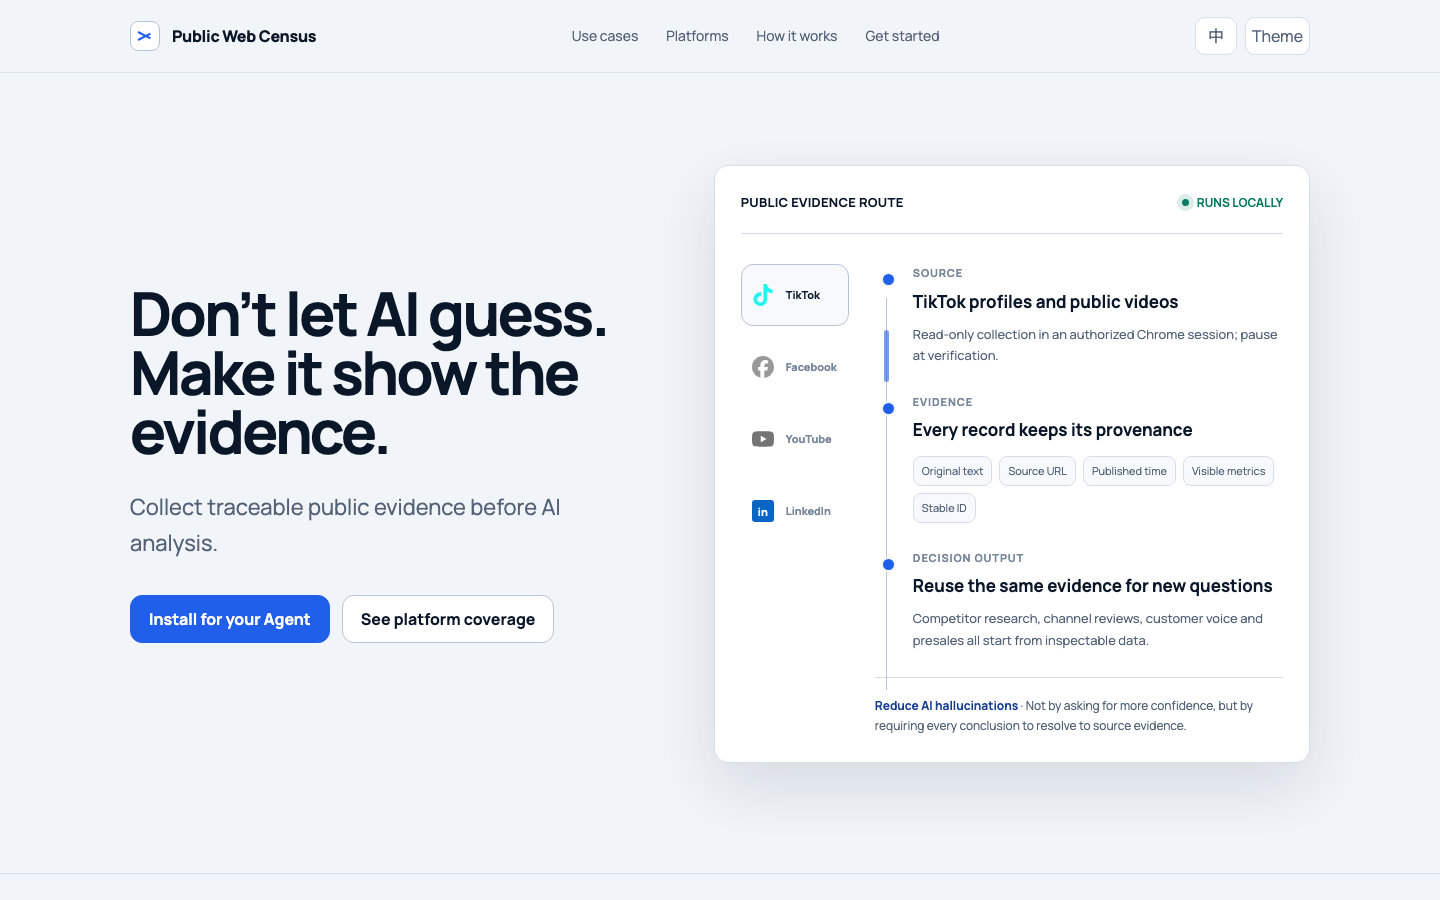
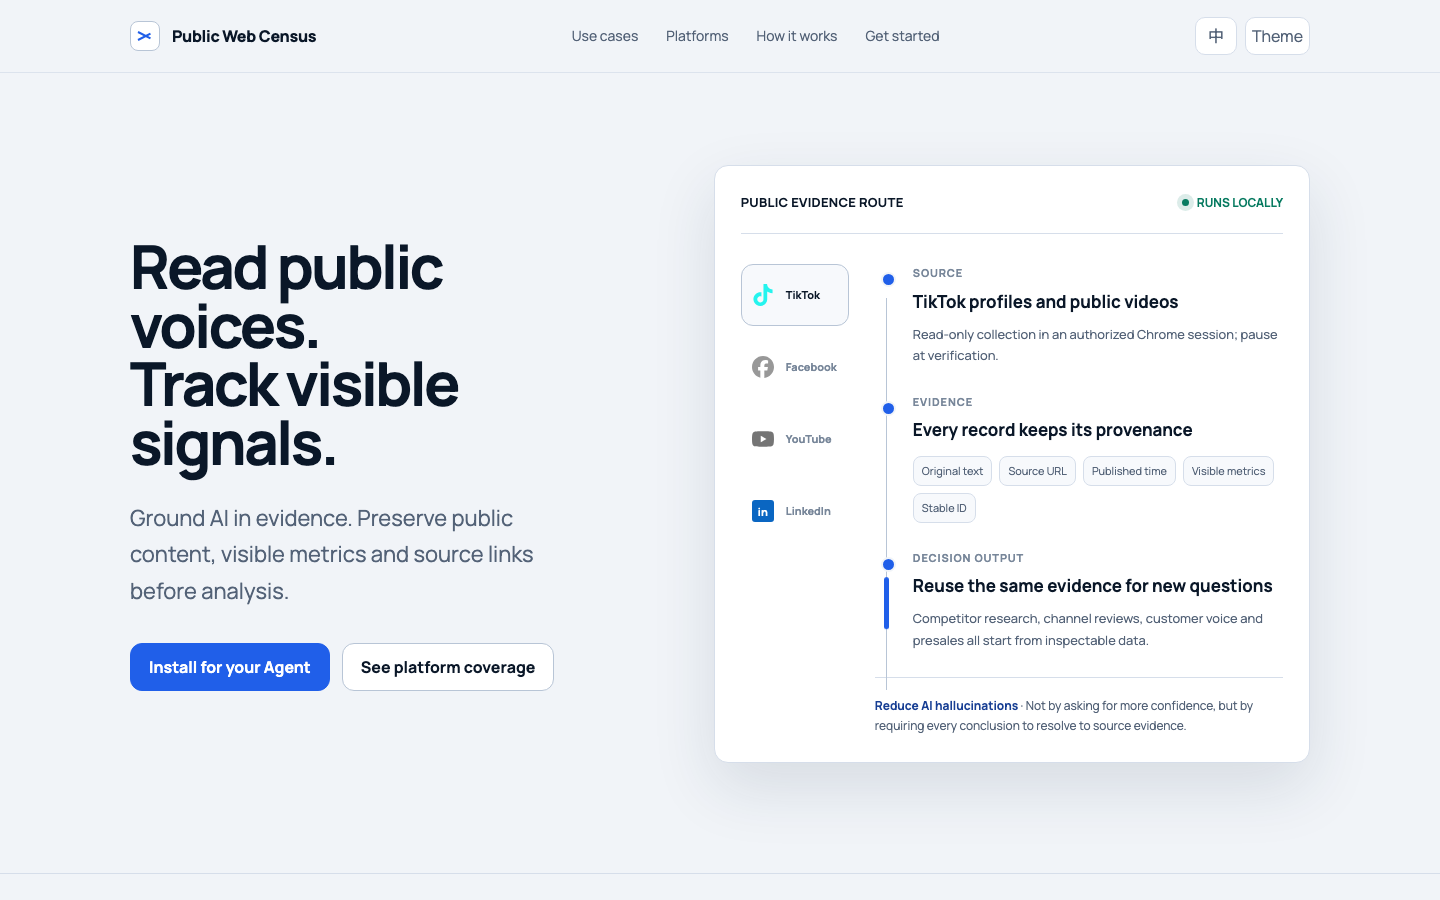
Introduce 察言观数 bilingual brand

diff --git a/docs/index.html b/docs/index.html
@@ -4,7 +4,7 @@
   <meta charset="utf-8">
   <meta name="viewport" content="width=device-width, initial-scale=1">
   <meta name="description" content="Public Web Census collects traceable public evidence across TikTok, Facebook, YouTube and LinkedIn before AI analysis.">
-  <title>Public Web Census | Evidence before analysis</title>
+  <title>Public Web Census · 察言观数 | Ground AI in evidence</title>
   <link rel="preconnect" href="https://fonts.googleapis.com">
   <link rel="preconnect" href="https://fonts.gstatic.com" crossorigin>
   <link href="https://fonts.googleapis.com/css2?family=Manrope:wght@400;500;600;700;800&family=Noto+Sans+SC:wght@400;500;600;700;800&display=swap" rel="stylesheet">
@@ -127,6 +127,7 @@
       gap: clamp(48px, 7vw, 96px);
       padding: 92px 0 110px;
     }
+    .hero > *, .dispatch-grid > * { min-width: 0; }
     h1, h2, h3, p { margin-top: 0; }
     h1 {
       margin-bottom: 28px;
@@ -460,9 +461,15 @@
       :root { --page: min(100% - 30px, 1180px); }
       .nav-inner { min-height: 62px; }
       .brand span:last-child { font-size: 14px; }
-      h1 { font-size: clamp(36px, 10.5vw, 42px); white-space: nowrap; }
+      #theme { display: none; }
+      h1 { font-size: clamp(34px, 9.2vw, 38px); white-space: normal; }
       .hero { min-height: auto; padding: 66px 0 78px; }
+      .actions { display: grid; grid-template-columns: 1fr; }
+      .actions .button { width: 100%; }
       .dispatch { padding: 17px; }
+      .dispatch-head { gap: 12px; }
+      .dispatch-head strong { max-width: 58%; }
+      .live-state { white-space: nowrap; }
       .dispatch-grid { grid-template-columns: 1fr; }
       .source-rail { grid-template-columns: repeat(4, 1fr); }
       .source-button { min-height: 54px; grid-template-columns: 1fr; justify-items: center; }
@@ -486,7 +493,7 @@
 <body>
   <nav class="nav" aria-label="Primary">
     <div class="shell nav-inner">
-      <a class="brand" href="#top" aria-label="Public Web Census home"><span class="brand-mark" aria-hidden="true"></span><span>Public Web Census</span></a>
+      <a class="brand" href="#top" aria-label="Public Web Census home"><span class="brand-mark" aria-hidden="true"></span><span data-zh="察言观数" data-en="Public Web Census">Public Web Census</span></a>
       <div class="nav-links">
         <a href="#uses" data-zh="业务用途" data-en="Use cases">业务用途</a>
         <a href="#platforms" data-zh="平台支持" data-en="Platforms">平台支持</a>
@@ -502,8 +509,8 @@
   <main id="top">
     <section class="shell hero">
       <div class="hero-copy">
-        <h1 data-zh="别让 AI 猜市场。<br>让它先拿出证据。" data-en="Don’t let AI guess.<br>Make it show the evidence.">别让 AI 猜市场。<br>让它先拿出证据。</h1>
-        <p data-zh="采集可回查的公开信息，再让 AI 分析。" data-en="Collect traceable public evidence before AI analysis.">采集可回查的公开信息，再让 AI 分析。</p>
+        <h1 data-zh="察公开之言。<br>观市场之数。" data-en="Read public voices.<br>Track visible signals.">Read public voices.<br>Track visible signals.</h1>
+        <p data-zh="让 AI 有据可依。公开内容、互动数据和来源链接，先沉淀，再分析。" data-en="Ground AI in evidence. Preserve public content, visible metrics and source links before analysis.">Ground AI in evidence. Preserve public content, visible metrics and source links before analysis.</p>
         <div class="actions">
           <a class="button primary" href="#install" data-zh="让 Agent 安装" data-en="Install for your Agent">让 Agent 安装</a>
           <a class="button" href="#platforms" data-zh="查看支持范围" data-en="See platform coverage">查看支持范围</a>
@@ -605,7 +612,7 @@
       <div class="shell guardrails">
         <div>
           <h2 data-zh="减少幻觉，靠的是证据边界。" data-en="Hallucination risk falls when evidence has boundaries.">减少幻觉，靠的是证据边界。</h2>
-          <p data-zh="Public Web Census 不承诺模型永不出错。它做的是让原始事实先落地，让程序验证记录完整性，让人保留最终判断。" data-en="Public Web Census does not promise infallible models. It grounds source facts first, validates record integrity, and keeps final judgment human.">Public Web Census 不承诺模型永不出错。它做的是让原始事实先落地，让程序验证记录完整性，让人保留最终判断。</p>
+          <p data-zh="察言观数不承诺模型永不出错。它做的是让原始事实先落地，让程序验证记录完整性，让人保留最终判断。" data-en="Public Web Census does not promise infallible models. It grounds source facts first, validates record integrity, and keeps final judgment human.">Public Web Census does not promise infallible models. It grounds source facts first, validates record integrity, and keeps final judgment human.</p>
         </div>
         <ul class="guardrail-list">
           <li><strong data-zh="公开可见与只读" data-en="Publicly visible and read-only">公开可见与只读</strong><span data-zh="不自动发帖、评论、点赞或发送消息。" data-en="Never posts, comments, likes or sends messages automatically.">不自动发帖、评论、点赞或发送消息。</span></li>
@@ -621,7 +628,7 @@
       <a class="button primary" href="https://github.com/KayZhongyi/public-web-census" data-zh="在 GitHub 查看" data-en="View on GitHub">在 GitHub 查看</a>
     </section>
   </main>
-  <footer><div class="shell"><span>Public Web Census · MIT License</span><span><a href="https://github.com/KayZhongyi/public-web-census">GitHub</a> · <a href="https://github.com/KayZhongyi/public-web-census/blob/main/README.md">English</a> · <a href="https://github.com/KayZhongyi/public-web-census/blob/main/README.zh-CN.md">中文</a></span></div></footer>
+  <footer><div class="shell"><span data-zh="察言观数 · MIT License" data-en="Public Web Census · MIT License">Public Web Census · MIT License</span><span><a href="https://github.com/KayZhongyi/public-web-census">GitHub</a> · <a href="https://github.com/KayZhongyi/public-web-census/blob/main/README.md">English</a> · <a href="https://github.com/KayZhongyi/public-web-census/blob/main/README.zh-CN.md">中文</a></span></div></footer>
   <script>
     const platformCopy = {
       zh: {
@@ -671,6 +678,8 @@
     }
     function renderLanguage() {
       document.documentElement.lang = language === "zh" ? "zh-CN" : "en";
+      document.title = language === "zh" ? "察言观数 | 让 AI 有据可依" : "Public Web Census | Ground AI in evidence";
+      document.querySelector(".brand").setAttribute("aria-label", language === "zh" ? "察言观数首页" : "Public Web Census home");
       document.getElementById("language").textContent = language === "zh" ? "EN" : "中";
       document.querySelectorAll("[data-zh][data-en]").forEach(function(node) { node.innerHTML = node.dataset[language]; });
       renderPanel(document.querySelector("[data-panel][aria-selected='true']").dataset.panel);

diff --git a/tests/test_demo.py b/tests/test_demo.py
@@ -15,13 +15,16 @@ class DemoTest(unittest.TestCase):
     def test_public_tour_is_bilingual_and_data_free(self) -> None:
         rendered = (ROOT / "docs" / "index.html").read_text(encoding="utf-8")
         readme = (ROOT / "README.md").read_text(encoding="utf-8")
+        readme_zh = (ROOT / "README.zh-CN.md").read_text(encoding="utf-8")
 
         self.assertIn('<html lang="en" data-theme="light">', rendered)
         self.assertIn('let language = "en";', rendered)
         self.assertIn("assets/product-tour-light-en.png", readme)
         self.assertTrue((ROOT / "assets" / "product-tour-light-en.png").is_file())
-        self.assertIn("别让 AI 猜市场", rendered)
-        self.assertIn("Don’t let AI guess.", rendered)
+        self.assertIn("察公开之言", rendered)
+        self.assertIn("Read public voices.", rendered)
+        self.assertIn("# 察言观数", readme_zh)
+        self.assertIn("# Public Web Census", readme)
         for platform in ("TikTok", "Facebook", "YouTube", "LinkedIn"):
             self.assertIn(platform, rendered)
         self.assertNotIn("Fictional", rendered)

diff --git a/PRODUCT.md b/PRODUCT.md
@@ -12,11 +12,11 @@ Primary users are company leaders, market teams, presales teams, product teams, 
 
 ## Product Purpose
 
-Public Web Census turns public social-web pages into refreshable, source-linked evidence that an AI Agent can analyze without treating generated prose as fact. Success means a colleague can install the Skill, describe an account and a business question in natural language, complete any required browser verification themselves, and receive reusable raw records plus an evidence-aware analysis.
+Public Web Census—branded in Chinese as 察言观数—turns public social-web pages into refreshable, source-linked evidence that an AI Agent can analyze without treating generated prose as fact. Success means a colleague can install the Skill, describe an account and a business question in natural language, complete any required browser verification themselves, and receive reusable raw records plus an evidence-aware analysis.
 
 ## Positioning
 
-Do not let AI guess the market. Make it show the evidence first. The product combines logged-in browser collection, stable record identities, incremental history, source links, and deterministic validation so that AI-assisted market, customer-voice, and presales work is grounded in inspectable public data.
+Read public voices. Track visible signals. Ground AI in evidence. The product combines logged-in browser collection, stable record identities, incremental history, source links, and deterministic validation so that AI-assisted market, customer-voice, and presales work is grounded in inspectable public data.
 
 ## Operating Context
 
@@ -38,9 +38,12 @@ Do not let AI guess the market. Make it show the evidence first. The product com
 
 ## Brand Commitments
 
-- Product name: Public Web Census.
+- English product name: Public Web Census.
+- Chinese product name: 察言观数.
+- Repository and CLI name: `public-web-census`.
 - Chinese and English documentation are first-class.
 - Voice: concise, evidence-led, useful to business decision-makers, and explicit about real platform boundaries.
+- Chinese promise: 察公开之言，观市场之数，让 AI 有据可依。
 - Core message: reduce AI hallucinations by making public evidence traceable, refreshable, and reusable.
 
 ## Evidence on Hand

diff --git a/README.md b/README.md
@@ -2,9 +2,11 @@
 
 # Public Web Census
 
-### Don’t let AI guess the market. Make it show the evidence.
+### 察言观数
 
-Collect traceable public signals before AI analysis. Reduce hallucination risk and keep every decision source-linked, refreshable, and reusable.
+**Read public voices. Track visible signals. Ground AI in evidence.**
+
+Turn public web records into traceable, refreshable evidence before AI analysis.
 
 [中文](README.zh-CN.md) · [Product tour](https://kayzhongyi.github.io/public-web-census/) · [Get started](#start-with-codex-or-claude) · [Platform coverage](#platform-coverage)
 
@@ -12,7 +14,7 @@ Collect traceable public signals before AI analysis. Reduce hallucination risk a
 
 ![Public Web Census product tour in English light mode](assets/product-tour-light-en.png)
 
-Public Web Census is an Agent Skill for colleagues who use **Codex or Claude**. Give it a target account, market, and business question in natural language. The Agent verifies scope, collects visible public records, preserves raw evidence locally, and analyzes only after the evidence exists.
+Public Web Census—branded in Chinese as **察言观数**—is an Agent Skill for colleagues who use **Codex or Claude**. Give it a target account, market, and business question in natural language. The Agent verifies scope, collects visible public records, preserves raw evidence locally, and analyzes only after the evidence exists.
 
 It is designed for:
 
